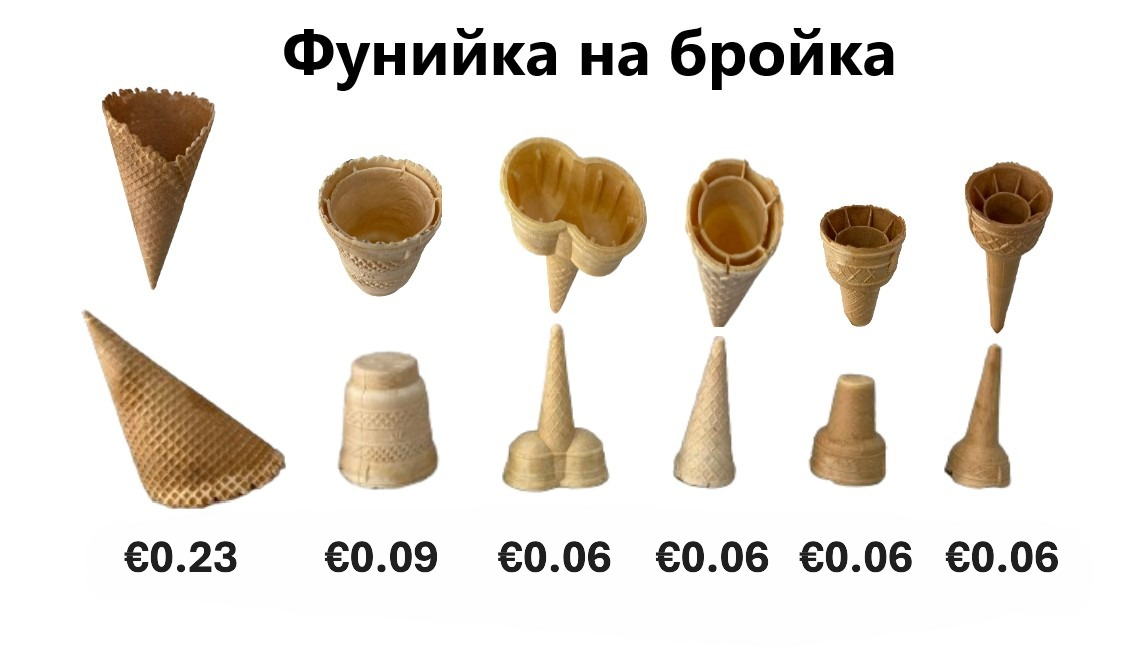
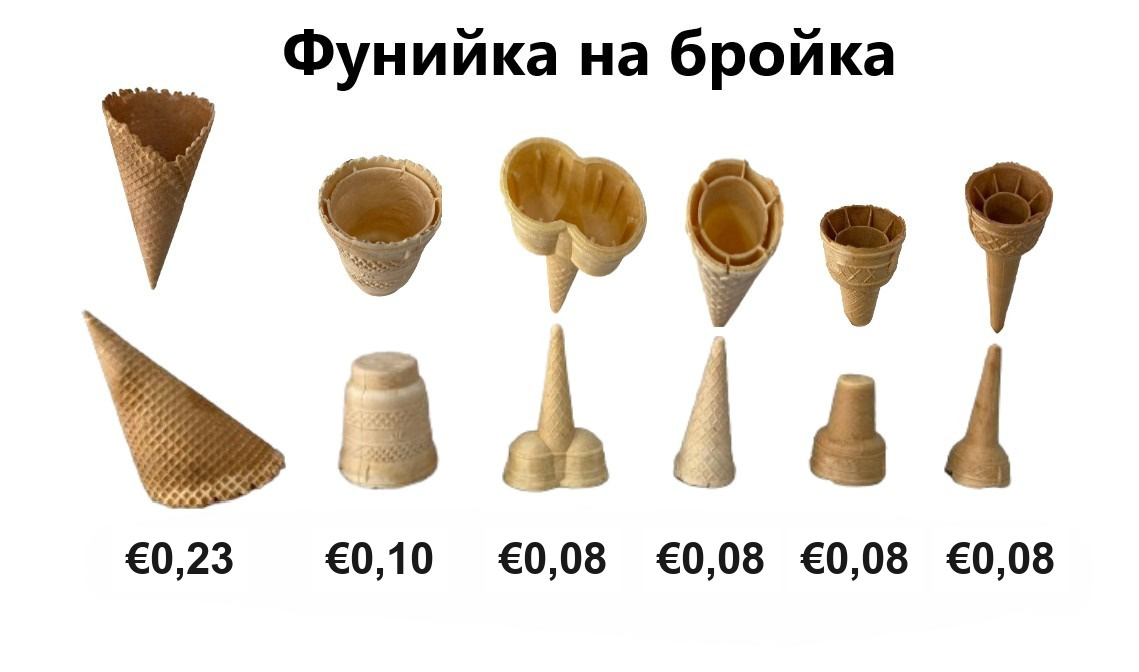
Update cone and website price formatting

diff --git a/index.html b/index.html
@@ -254,7 +254,7 @@
           <h3>Сладоледени торти</h3>
           <p>Представяме Ви нашите премиум сладоледени торти – налични във вкусове малина и боровинка.</p>
           <p>Всяка торта е изработена с основа от фин кадаиф, селектирани сладоледи ВАМТ и органични горски плодове.</p>
-          <p class="price"><b>Цена:€15.50</b></p>
+          <p class="price"><b>Цена:€15,50</b></p>
           <a href="#contact" class="cta-button">Поръчайте сега</a>
         </div>
         
@@ -267,8 +267,8 @@
         <div class="new-content">
           <h3>Сладолед без добавена захар</h3>
           <p>Вече предлагаме сладолед без добавена захар – перфектен избор за диабетици и всички, които обичат сладко, но мислят за здравето си.</p>
-          <p class="price"><b>Цена за 0,200L: €1.65</b></p>
-          <p class="price"><b>Цена за 1L: €4.40</b></p>
+          <p class="price"><b>Цена за 0,200L: €1,65</b></p>
+          <p class="price"><b>Цена за 1L: €4,40</b></p>
           <a href="#contact" class="cta-button">Попитайте за наличност</a>
         </div>
         
